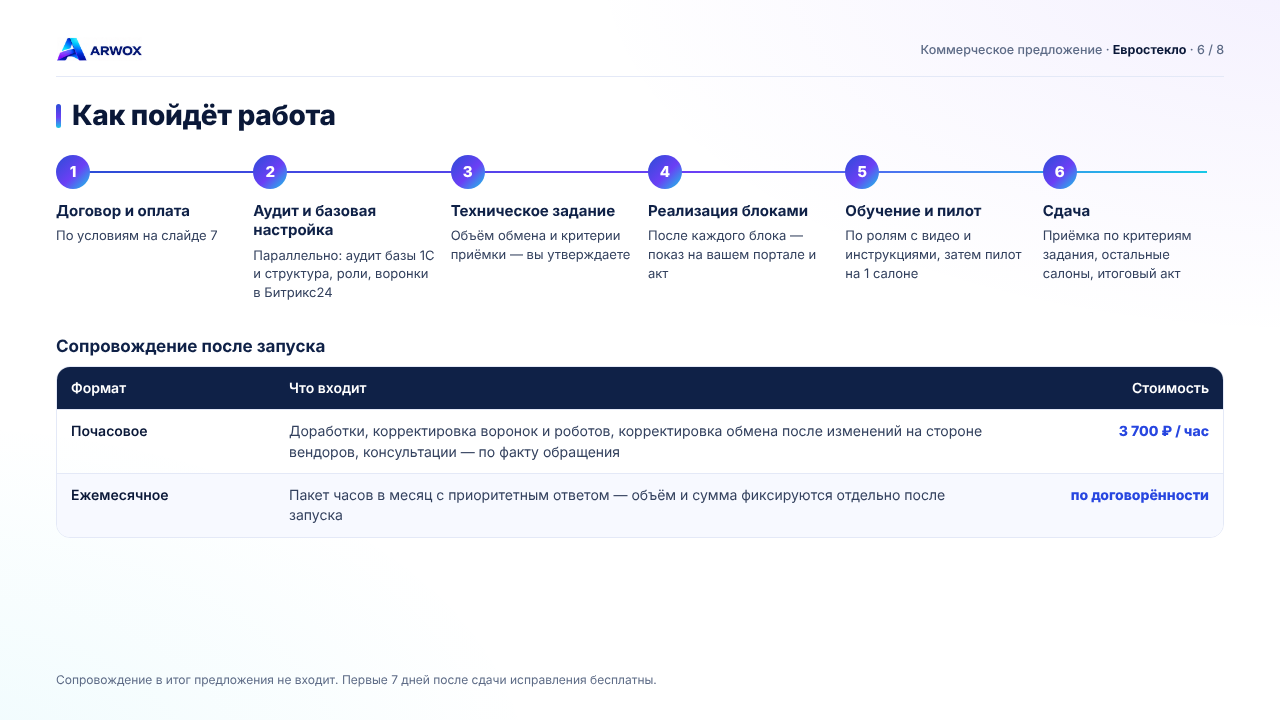
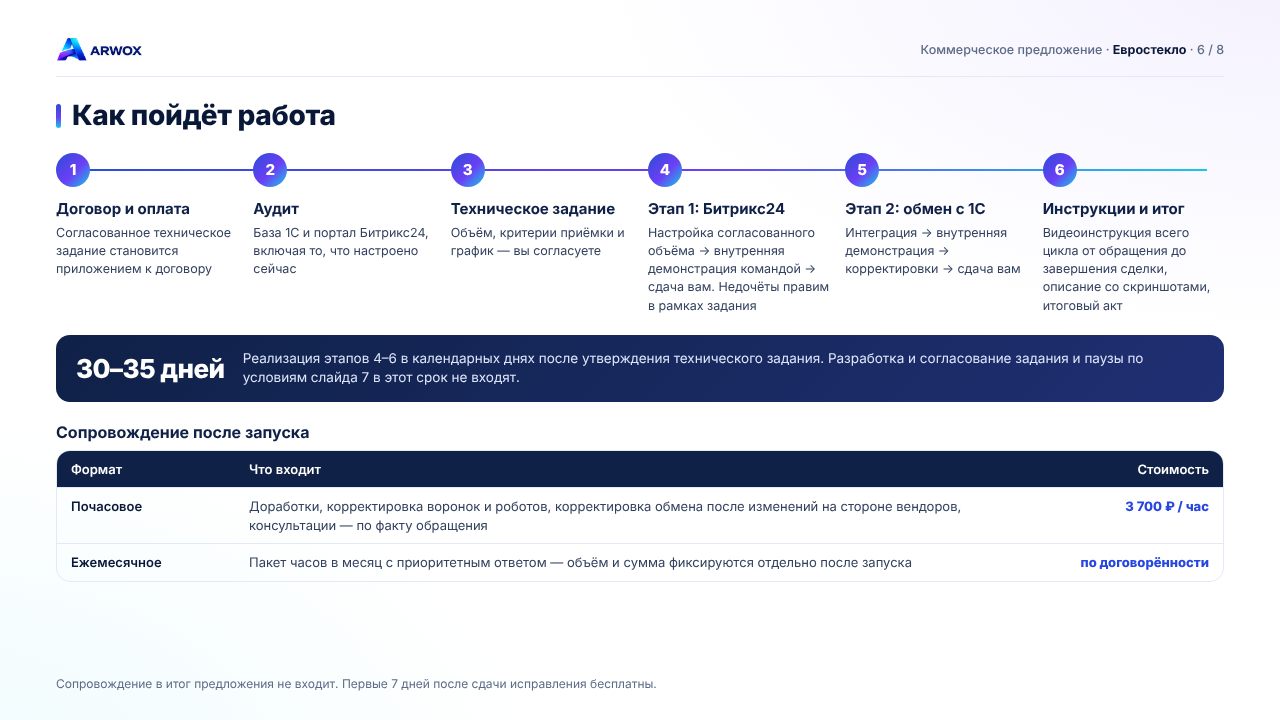
claude-web: КП — этапы по процессу владельца, срок 30–35 дней, пауза, Wazzup, пояснения
Claude-Session: https://claude.ai/code/session_01GkndF4A6X3vok37QfmD711

diff --git a/docs/kp-design/2026-10-28/project/S08-etapy.dc.html b/docs/kp-design/2026-10-28/project/S08-etapy.dc.html
@@ -14,32 +14,41 @@
 body{margin:0}
 a{color:#2746e0}a:hover{color:#6b3ff5}
 .st h3{margin:12px 0 6px;font-size:15px;line-height:1.3;font-weight:700;color:#0f2147}
-.st p{margin:0;font-size:13px;line-height:1.45;color:#33415e}
+.st p{margin:0;font-size:12.5px;line-height:1.45;color:#33415e}
+.t2{width:100%;border-collapse:separate;border-spacing:0;font-size:13px;line-height:1.42;border:1px solid #e4e9f7;border-radius:14px;overflow:hidden}
+.t2 th{background:#0f2147;color:#fff;text-align:left;font-weight:600;padding:9px 14px}
+.t2 td{padding:9px 14px;border-top:1px solid #e4e9f7;vertical-align:top;color:#33415e}
+.t2 td:first-child{color:#0a1838;font-weight:600;width:150px}
+.t2 td.pr{white-space:nowrap;font-weight:800;color:#2746e0;text-align:right;width:170px}
 </style>
 </helmet>
 <div class="slide">
   <div class="bar"><img src="/_blob/2d13f70378f3606a62bea08f50f6129b" alt="ARWOX"><span>Коммерческое предложение · <b>Евростекло</b> · <span>6 / 8</span></span></div>
   <h2 class="h2">Как пойдёт работа</h2>
-  <div style="position: relative; margin-top: 22px">
+  <div style="position: relative; margin-top: 20px">
     <div style="position: absolute; left: 17px; right: 17px; top: 16px; height: 2px; background: linear-gradient(90deg, #2b4dd6 0%, #6b3ff5 55%, #18c8e6 100%)"></div>
     <div style="position: relative; display: grid; grid-template-columns: repeat(6, minmax(0, 1fr)); gap: 16px">
-      <div class="st"><span class="num">1</span><h3>Договор и оплата</h3><p>По условиям на слайде 7</p></div>
-      <div class="st"><span class="num">2</span><h3>Аудит и базовая настройка</h3><p>Параллельно: аудит базы 1С и структура, роли, воронки в Битрикс24</p></div>
-      <div class="st"><span class="num">3</span><h3>Техническое задание</h3><p>Объём обмена и критерии приёмки — вы утверждаете</p></div>
-      <div class="st"><span class="num">4</span><h3>Реализация блоками</h3><p>После каждого блока — показ на вашем портале и акт</p></div>
-      <div class="st"><span class="num">5</span><h3>Обучение и пилот</h3><p>По ролям с видео и инструкциями, затем пилот на 1 салоне</p></div>
-      <div class="st"><span class="num">6</span><h3>Сдача</h3><p>Приёмка по критериям задания, остальные салоны, итоговый акт</p></div>
+      <div class="st"><span class="num">1</span><h3>Договор и оплата</h3><p>Согласованное техническое задание становится приложением к договору</p></div>
+      <div class="st"><span class="num">2</span><h3>Аудит</h3><p>База 1С и портал Битрикс24, включая то, что настроено сейчас</p></div>
+      <div class="st"><span class="num">3</span><h3>Техническое задание</h3><p>Объём, критерии приёмки и график — вы согласуете</p></div>
+      <div class="st"><span class="num">4</span><h3>Этап 1: Битрикс24</h3><p>Настройка согласованного объёма → внутренняя демонстрация командой → сдача вам. Недочёты правим в рамках задания</p></div>
+      <div class="st"><span class="num">5</span><h3>Этап 2: обмен с 1С</h3><p>Интеграция → внутренняя демонстрация → корректировки → сдача вам</p></div>
+      <div class="st"><span class="num">6</span><h3>Инструкции и итог</h3><p>Видеоинструкция всего цикла от обращения до завершения сделки, описание со скриншотами, итоговый акт</p></div>
     </div>
   </div>
-  <p style="margin: 34px 0 10px; font-size: 17px; font-weight: 700; color: #0f2147">Сопровождение после запуска</p>
-  <table class="tb">
-    <thead><tr><th style="width: 190px">Формат</th><th>Что входит</th><th style="width: 190px; text-align: right">Стоимость</th></tr></thead>
+  <div style="margin-top: 20px; display: flex; align-items: center; gap: 18px; padding: 14px 20px; border-radius: 14px; background: linear-gradient(135deg, #0f2147 0%, #1f2f73 100%); color: #fff">
+    <span style="font-size: 26px; font-weight: 800; letter-spacing: -.5px; white-space: nowrap">30–35 дней</span>
+    <span style="font-size: 13.5px; line-height: 1.45; color: #dfe6fb">Реализация этапов 4–6 в календарных днях после утверждения технического задания. Разработка и согласование задания и паузы по условиям слайда 7 в этот срок не входят.</span>
+  </div>
+  <p style="margin: 20px 0 8px; font-size: 16px; font-weight: 700; color: #0f2147">Сопровождение после запуска</p>
+  <table class="t2">
+    <thead><tr><th>Формат</th><th>Что входит</th><th style="text-align: right">Стоимость</th></tr></thead>
     <tbody>
       <tr><td>Почасовое</td><td>Доработки, корректировка воронок и роботов, корректировка обмена после изменений на стороне вендоров, консультации — по факту обращения</td><td class="pr">3&nbsp;700&nbsp;₽ / час</td></tr>
       <tr><td>Ежемесячное</td><td>Пакет часов в месяц с приоритетным ответом — объём и сумма фиксируются отдельно после запуска</td><td class="pr">по договорённости</td></tr>
     </tbody>
   </table>
-  <p class="foot" style="position: absolute; left: 56px; right: 56px; bottom: 32px; margin: 0">Сопровождение в итог предложения не входит. Первые 7 дней после сдачи исправления бесплатны.</p>
+  <p class="foot" style="position: absolute; left: 56px; right: 56px; bottom: 28px; margin: 0">Сопровождение в итог предложения не входит. Первые 7 дней после сдачи исправления бесплатны.</p>
 </div>
 </x-dc>
 <script type="text/x-dc" data-dc-script data-props='{"$preview":{"width":1280,"height":720}}'>

diff --git a/docs/kp-design/2026-10-28/project/S05-stoimost.dc.html b/docs/kp-design/2026-10-28/project/S05-stoimost.dc.html
@@ -13,32 +13,35 @@
 <style>
 body{margin:0}
 a{color:#2746e0}a:hover{color:#6b3ff5}
-.cap{margin:0 0 10px;font-size:15px;font-weight:700;color:#0f2147}
+.cap{margin:0 0 8px;font-size:15px;font-weight:700;color:#0f2147}
+.tb th,.tb td{padding:9px 14px}
+.tb{font-size:13.5px}
 </style>
 </helmet>
 <div class="slide">
   <div class="bar"><img src="/_blob/2d13f70378f3606a62bea08f50f6129b" alt="ARWOX"><span>Коммерческое предложение · <b>Евростекло</b> · <span>4 / 8</span></span></div>
   <h2 class="h2">Стоимость</h2>
-  <p class="cap" style="margin-top: 18px">Услуги ARWOX</p>
+  <p class="cap" style="margin-top: 14px">Услуги ARWOX</p>
   <table class="tb">
     <thead><tr><th style="width: 330px">Услуга</th><th>Что входит</th><th style="width: 150px; text-align: right">Стоимость</th></tr></thead>
     <tbody>
-      <tr><td>Внедрение: продажи в Битрикс24 и обмен с 1С</td><td>Аудит 1С и техническое задание, настройка портала и ролей, лиды, сделка, обмен с 1С, отчёты, обучение, пилот и сдача</td><td class="pr">260&nbsp;000&nbsp;₽</td></tr>
+      <tr><td>Внедрение: продажи в Битрикс24 и обмен с 1С</td><td>Аудит 1С и техническое задание, настройка портала и ролей, лиды, сделка, обмен с 1С, стандартные отчёты (или готовое решение из Маркетплейса), видеоинструкция и сдача в 2 этапа<div style="margin-top: 6px; font-size: 13px; color: #5d6b86">Отчёты под конкретные задачи клиента — отдельная разработка, оценивается отдельно.</div></td><td class="pr">260&nbsp;000&nbsp;₽</td></tr>
     </tbody>
   </table>
-  <div style="margin-top: 12px; display: flex; align-items: center; justify-content: space-between; padding: 16px 22px; border-radius: 14px; background: linear-gradient(135deg, #0f2147 0%, #1f2f73 100%); color: #fff">
+  <div style="margin-top: 10px; display: flex; align-items: center; justify-content: space-between; padding: 12px 22px; border-radius: 14px; background: linear-gradient(135deg, #0f2147 0%, #1f2f73 100%); color: #fff">
     <span style="font-size: 16px; font-weight: 700">Итого по предложению</span>
     <span style="font-size: 30px; font-weight: 800; letter-spacing: -.5px">260&nbsp;000&nbsp;₽</span>
   </div>
-  <p class="cap" style="margin-top: 24px">Оплачивается напрямую владельцам — в итог не входит</p>
+  <p class="cap" style="margin-top: 16px">Оплачивается напрямую владельцам — в итог не входит</p>
   <table class="tb">
     <thead><tr><th style="width: 330px">Позиция</th><th>Комментарий</th><th style="width: 150px; text-align: right">Стоимость</th></tr></thead>
     <tbody>
       <tr><td>Лицензия Битрикс24 «Профессиональный», облако</td><td>Уже действует у вас до 26.06.2027</td><td class="pr"></td></tr>
-      <tr><td>Подписка «Битрикс24 Маркетплейс» «Профессиональный», 12&nbsp;месяцев</td><td>Нужна для приложений телефонии и мессенджеров и для собственных интеграций портала. Если подписка для портала оформляется впервые, у вендора может действовать сниженная цена — проверим при оформлении</td><td class="pr">87&nbsp;840&nbsp;₽</td></tr>
-      <tr><td>Сервисы телефонии и мессенджеров</td><td>По тарифам их владельцев; подбираем на проектировании</td><td class="pr"></td></tr>
+      <tr><td>Подписка «Битрикс24 Маркетплейс» «Профессиональный», 12&nbsp;месяцев</td><td>Нужна для приложений телефонии и мессенджеров и собственных интеграций портала. При первом оформлении у вендора может действовать сниженная цена — проверим</td><td class="pr">87&nbsp;840&nbsp;₽</td></tr>
+      <tr><td>MAX или WhatsApp через Wazzup — если выберете</td><td>1 канал (1 номер), тариф Pro: писать первым, до 500 диалогов в месяц; 4&nbsp;000&nbsp;₽ при помесячной оплате или 38&nbsp;400&nbsp;₽ за год</td><td class="pr">от 3&nbsp;200&nbsp;₽ / мес.</td></tr>
     </tbody>
   </table>
+  <p class="foot" style="margin: 8px 0 0">Телефония — по тарифу вашего оператора; каждый канал Wazzup оплачивается отдельно.</p>
 </div>
 </x-dc>
 <script type="text/x-dc" data-dc-script data-props='{"$preview":{"width":1280,"height":720}}'>

diff --git a/docs/kp-design/2026-10-28/project/S04-ramki.dc.html b/docs/kp-design/2026-10-28/project/S04-ramki.dc.html
@@ -14,8 +14,8 @@
 body{margin:0}
 a{color:#2746e0}a:hover{color:#6b3ff5}
 .cd p{font-size:14.5px}
-.cd li{font-size:14px}
-.cd li+li{margin-top:9px}
+.cd li{font-size:13px}
+.cd li+li{margin-top:7px}
 </style>
 </helmet>
 <div class="slide">
@@ -26,18 +26,19 @@ a{color:#2746e0}a:hover{color:#6b3ff5}
       <div class="cd" style="padding: 20px 22px; border-top: 4px solid #2b4dd6"><h3>Аудит 1С и техническое задание</h3><p>Способ обмена под вашу конфигурацию, критерии приёмки</p></div>
       <div class="cd" style="padding: 20px 22px; border-top: 4px solid #4a46ea"><h3>Лиды и сделка</h3><p>Каналы, распределение, проверка дублей; 9 стадий, задачи и сроки, воронка отказников</p></div>
       <div class="cd" style="padding: 20px 22px; border-top: 4px solid #6b3ff5"><h3>Обмен с 1С — 6 потоков</h3><p>Клиенты и заказы, номенклатура, стадии, документы, оплаты, производство</p></div>
-      <div class="cd" style="padding: 20px 22px; border-top: 4px solid #4a86ea"><h3>Отчёты и роли</h3><p>Воронка, просрочки, пропущенные обращения; права для 9 ролей</p></div>
-      <div class="cd" style="padding: 20px 22px; border-top: 4px solid #18c8e6; grid-column: span 2"><h3>Обучение, пилот и сдача</h3><p>Обучение по ролям с видео и инструкциями, пилот на 1 салоне, приёмка по техническому заданию. Звонки клиенту после сделки через 14, 90 и 270&nbsp;дней — автоматической задачей ассистенту</p></div>
+      <div class="cd" style="padding: 20px 22px; border-top: 4px solid #4a86ea"><h3>Отчёты и роли</h3><p>Стандартные отчёты: воронка, просрочки, пропущенные обращения; права для 9 ролей</p></div>
+      <div class="cd" style="padding: 20px 22px; border-top: 4px solid #18c8e6; grid-column: span 2"><h3>Сдача в 2 этапа и инструкции</h3><p>Сначала Битрикс24, затем обмен с 1С — каждый этап с внутренней демонстрацией и сдачей вам. Видеоинструкция всего цикла и описание со скриншотами. Звонки клиенту после сделки через 14, 90 и 270&nbsp;дней по заказам от 100&nbsp;000&nbsp;₽ — автоматической задачей ассистенту</p></div>
     </div>
     <div class="cd soft" style="padding: 20px 22px">
       <h3>Не входит</h3>
       <ul>
-        <li>Рекламации — следующим этапом</li>
-        <li>Тендеры, частичные отгрузки, отказ клиента после оплаты</li>
-        <li>Авито и WhatsApp — по вашему решению</li>
-        <li>Монтаж отдельным договором, синхронизация календаря с 1С, разбор жалоб — по отдельному решению</li>
+        <li>Рекламации и отказ клиента после оплаты — следующим этапом</li>
+        <li>Тендеры; частичные отгрузки — порядок оформления определяют ваши юрист и бухгалтерия</li>
+        <li>Продажа монтажа через отдельное юрлицо и договор — когда решите; сам монтаж как стадия сделки входит</li>
+        <li>Авито сейчас нет, WhatsApp — по желанию; сервис — слайд 4</li>
+        <li>Синхронизация календаря с 1С — желательна, не обязательна: календарь заданий ведётся в Битрикс24</li>
+        <li>Разбор жалоб после звонков — пока вручную</li>
         <li>Изменения в самой конфигурации 1С, если без них обмен невозможен, — отдельная оценка до начала работ</li>
-        <li>Лицензия, подписка и сторонние сервисы — напрямую их владельцам</li>
       </ul>
     </div>
   </div>

diff --git a/docs/kp-design/2026-10-28/project/S09-usloviya.dc.html b/docs/kp-design/2026-10-28/project/S09-usloviya.dc.html
@@ -13,8 +13,8 @@
 <style>
 body{margin:0}
 a{color:#2746e0}a:hover{color:#6b3ff5}
-.u p{margin:0;font-size:12.5px;line-height:1.45;color:#33415e}
-.u p+p{margin-top:9px}
+.u p{margin:0;font-size:12px;line-height:1.42;color:#33415e}
+.u p+p{margin-top:7px}
 .u b{color:#0a1838}
 </style>
 </helmet>
@@ -27,8 +27,9 @@ a{color:#2746e0}a:hover{color:#6b3ff5}
       <p><b>Срок действия предложения</b> — 7 календарных дней, до 04.11.2026.</p>
       <p><b>Порядок оплаты</b> — [по этапам: доли и сроки платежей уточняются]. <b>Гарантия</b> — 7 дней бесплатных исправлений после сдачи работ.</p>
       <p><b>Объём работ</b> ограничен слайдом 3 и техническим заданием. Изменения после утверждения задания, в том числе переименование статусов после реализации, — отдельным согласованием.</p>
-      <p><b>График и приёмка.</b> График этапов фиксируем в техническом задании; приёмка — в течение 3 рабочих дней после сдачи каждого блока.</p>
-      <p><b>Доступы и содействие.</b> Копия базы 1С, контакт вашего специалиста 1С и администратор портала нужны на старте; задержки на вашей стороне соразмерно сдвигают сроки.</p>
+      <p><b>Срок и приёмка.</b> Реализация — 30–35 календарных дней после утверждения технического задания; разработка и согласование задания и паузы в срок не входят. Приёмка — 3 рабочих дня после сдачи этапа; если письменных замечаний нет, этап считается принятым.</p>
+      <p><b>Приостановка работ.</b> Ошибки, сбои или доработки вне нашей зоны — конфигурация и данные 1С, доступы, изменения вендора — ставят работы по связанным блокам на паузу до устранения причины; срок продлевается на время паузы. Выяснение и устранение таких причин — сопровождение по согласованию. Задержка оплаты или согласований с вашей стороны — такая же пауза.</p>
+      <p><b>Доступы и содействие.</b> Копия базы 1С, контакт вашего специалиста 1С и администратор портала нужны на старте; согласования — через 1 ответственного с вашей стороны.</p>
       <p><b>Данные.</b> Ввод и актуальность данных, порядок в базе 1С до запуска обмена — на вашей стороне; мы подключаем и настраиваем.</p>
     </div>
     <div class="cd soft u">

diff --git a/docs/kp-design/2026-10-28/project/S07-dve-sistemy.dc.html b/docs/kp-design/2026-10-28/project/S07-dve-sistemy.dc.html
@@ -24,7 +24,7 @@ a{color:#2746e0}a:hover{color:#6b3ff5}
       <h3>Входит в фиксированную стоимость</h3>
       <ul>
         <li>Обмен по техническому заданию на конфигурации обеих систем, зафиксированной на аудите</li>
-        <li>Проверка на реальных заказах пилотного салона</li>
+        <li>Проверка на реальных заказах</li>
         <li>7 дней бесплатных исправлений после сдачи</li>
       </ul>
     </div>
@@ -46,7 +46,7 @@ a{color:#2746e0}a:hover{color:#6b3ff5}
       </ul>
     </div>
   </div>
-  <div style="margin-top: 16px; padding: 14px 20px; border-radius: 14px; background: linear-gradient(135deg, #0f2147 0%, #1f2f73 100%); color: #fff; font-size: 14px; line-height: 1.5"><b>Почему говорим об этом сейчас.</b> Это свойство любой связки 2 систем, а не оговорка на всякий случай. 1С остаётся учётной системой: если обмен остановится, учёт в 1С не прерывается. Каждое поле ведёт 1 система — данные не правятся с 2 сторон.</div>
+  <div style="margin-top: 16px; padding: 14px 20px; border-radius: 14px; background: linear-gradient(135deg, #0f2147 0%, #1f2f73 100%); color: #fff; font-size: 14px; line-height: 1.5"><b>Почему говорим об этом сейчас.</b> Это свойство любой связки 2 систем, а не оговорка на всякий случай. 1С остаётся учётной системой: если обмен остановится, учёт в 1С не прерывается. Каждое поле ведёт 1 система — данные не правятся с 2 сторон. Если сбой или доработка нужны на стороне одной из систем, работы по связанным блокам ставим на паузу до устранения причины, срок сдвигается на время паузы.</div>
 </div>
 </x-dc>
 <script type="text/x-dc" data-dc-script data-props='{"$preview":{"width":1280,"height":720}}'>

diff --git a/docs/kp-design/2026-10-28/project/Main.dc.html b/docs/kp-design/2026-10-28/project/Main.dc.html
@@ -32,12 +32,13 @@ a{color:#9fc0ff}a:hover{color:#cfe0ff}
     <div class="gl" style="padding: 26px 28px; border-radius: 22px; background: rgba(255,255,255,.08)">
       <span style="font-size: 12px; font-weight: 700; letter-spacing: .08em; text-transform: uppercase; color: #9fb0d6">Итог по предложению</span>
       <div style="margin-top: 10px; font-size: 52px; line-height: 1; font-weight: 800; letter-spacing: -1px">260&nbsp;000&nbsp;₽</div>
-      <p style="margin: 14px 0 0; font-size: 14px; line-height: 1.5; color: #c9d4ee">Под ключ: аудит 1С и техническое задание, настройка Битрикс24, обмен с 1С, обучение и сдача</p>
+      <p style="margin: 14px 0 0; font-size: 14px; line-height: 1.5; color: #c9d4ee">Под ключ: аудит 1С и техническое задание, настройка Битрикс24, обмен с 1С, видеоинструкция и сдача в 2 этапа</p>
     </div>
   </div>
   <div style="position: absolute; left: 64px; right: 64px; bottom: 40px; display: flex; gap: 10px; flex-wrap: wrap">
     <span class="gl" style="padding: 10px 14px; font-size: 13px; color: #e7eefc"><b style="color: #fff">Облако</b> Битрикс24 «Профессиональный»</span>
-    <span class="gl" style="padding: 10px 14px; font-size: 13px; color: #e7eefc"><b style="color: #fff">Фиксированная стоимость</b> за согласованный объём</span>
+    <span class="gl" style="padding: 10px 14px; font-size: 13px; color: #e7eefc"><b style="color: #fff">Фиксированная</b> стоимость</span>
+    <span class="gl" style="padding: 10px 14px; font-size: 13px; color: #e7eefc"><b style="color: #fff">Реализация</b> 30–35 дней после утверждения задания</span>
     <span class="gl" style="padding: 10px 14px; font-size: 13px; color: #e7eefc"><b style="color: #fff">Действует</b> до 04.11.2026</span>
   </div>
 </div>

diff --git a/docs/kp-design/2026-10-28/project/S02-situaciya.dc.html b/docs/kp-design/2026-10-28/project/S02-situaciya.dc.html
@@ -45,7 +45,7 @@ a{color:#2746e0}a:hover{color:#6b3ff5}
       </div>
     </div>
   </div>
-  <div style="margin-top: 22px; padding: 18px 22px; border-radius: 14px; background: linear-gradient(135deg, #0f2147 0%, #1f2f73 100%); color: #fff; font-size: 14px; line-height: 1.5"><b>Критерий успеха</b> — на реальных заказах пилотного салона сделка проходит все стадии, документы и оплаты совпадают в 2 системах. Точные критерии приёмки фиксируем в техническом задании.</div>
+  <div style="margin-top: 22px; padding: 18px 22px; border-radius: 14px; background: linear-gradient(135deg, #0f2147 0%, #1f2f73 100%); color: #fff; font-size: 14px; line-height: 1.5"><b>Критерий успеха</b> — на реальных заказах сделка проходит все стадии, документы и оплаты совпадают в 2 системах. Точные критерии приёмки фиксируем в техническом задании.</div>
 </div>
 </x-dc>
 <script type="text/x-dc" data-dc-script data-props='{"$preview":{"width":1280,"height":720}}'>

diff --git a/docs/kp-design/2026-10-28/facts-kp.md b/docs/kp-design/2026-10-28/facts-kp.md
@@ -24,7 +24,7 @@
 | K14 | T1-21, T3-10 | К | Рекламации и тендеры — вне контура | 3 | Рекламации |
 | K15 | T2-27, T2-23 | К | Частичные отгрузки решает бухгалтерия; монтаж отдельным договором — идея | 3 | частичные отгрузки |
 | K16 | T1-03, T1-05 | К | Авито сейчас нет; WhatsApp — «может быть» | 3 | WhatsApp |
-| K17 | T3-04 | К | Синхронизация календаря с 1С желательна, не обязательна | искл. (деталь ППО — в КП только ключевое, владелец 28.10) | желательна |
+| K17 | T3-04 | К | Синхронизация календаря с 1С желательна, не обязательна | 3 | желательна |
 | K18 | T2 358 | К | Жалобы после звонков сейчас не автоматизировать | 3 | жалоб |
 | K19 | T2-26; M узел «Ассистент ОП звонит через 14/90/270» и комментарий «Автоматическая постановка задачи» | К | Звонки 14/90/270, ассистент, автозадача, заказы от 100 000 ₽ | 3 | 270 |
 | K20 | T4 54–61 | Д | Типовая интеграция; возможна доработка со стороны КА — «надо понимать, о чём речь»; не решено | 3 | конфигурации 1С |
@@ -35,10 +35,17 @@
 | K25 | T1-17 | К | Звонки и почта салона — менеджеру салона; без привязки — руководителю, он распределяет | искл. (деталь ППО — в КП только ключевое, владелец 28.10) | без привязки |
 | K26 | T1-07 | К | Дубли — по телефону, e-mail, ФИО | искл. (деталь ППО — в КП только ключевое, владелец 28.10) | e-mail, ФИО |
 | K27 | T2-07 | К | Стадии двигаются выполненными задачами | искл. (деталь ППО — в КП только ключевое, владелец 28.10) | двигают задачи |
-| K28 | ППО слайд 13 (предложение ARWOX, утверждено владельцем 28.10) | Ан | Пилот на 1 салоне, затем остальные | 6 | пилот на 1 салоне |
+| K28 | ППО слайд 13 (предложение ARWOX, утверждено владельцем 28.10) | Ан | Пилот на 1 салоне, затем остальные | искл. (владелец 28.10: процесс без пилота — этапы 1 и 2 с внутренней демонстрацией) | пилот на 1 салоне |
 | K29 | К SERV-990 | Ц | Техническая поддержка — 3 700 ₽ | 6 | 3 700 |
 | K30 | Р workflow.md «Структура КП» | Пр | Срок действия 7 дней; приёмка 3 рабочих дня; гарантия 7 дней | 7 | 04.11.2026 |
 | K31 | T3-07 | Ан | Изменение статусов после реализации — доработки и рост стоимости | 7 | переименование статусов |
-| K32 | T4 62 | Ан | Ранее доступ к 1С затягивался на месяц — сроки и акты сдвигались | 7 | задержки на вашей стороне |
+| K32 | T4 62 | Ан | Ранее доступ к 1С затягивался на месяц — сроки и акты сдвигались | 7 | Задержка оплаты или согласований |
 | K33 | T4-05; T3 59:47–01:00:01 | Д | Копия базы 1С — после подписания; связка с программистом клиента | 8 | копия базы 1С |
 | K34 | M комментарий 28.09 «структура карточек: лида, компании, сделки»; Q28 | К | Карточки лида и клиента прислали, компании и сделки — нет | 8 | карточки лида и клиента |
+| K35 | В 28.10 | Д | Порядок: договор (согласованное ТЗ — приложение) → аудит 1С и Битрикс24, включая текущие настройки → ТЗ → этап 1 Битрикс24 → этап 2 обмен с 1С → видеоинструкция и итоговый акт; внутренняя демонстрация перед каждой сдачей | 6 | приложением к договору |
+| K36 | В 28.10 | Д | Реализация — 30–35 календарных дней, без разработки и согласования ТЗ | 6 | 30–35 дней |
+| K37 | В 28.10 | Д | Пауза, если на стороне одной из платформ ошибки или доработки; защита исполнителя | 7 | Приостановка работ |
+| K38 | К Wazzup MAX/WhatsApp Pro, 1 и 12 мес. (проверено 23.10.2026) | Ц | 4 000 ₽ в месяц; 38 400 ₽ за год (3 200 ₽ в месяц); писать первым; до 500 диалогов | 4 | 38 400 |
+| K39 | T2 5095–5180 | К | Монтаж отдельно — идея разделить продажу на 2 юрлица (товар и услуги), не реализовано; при появлении — новая сделка | 3 | отдельное юрлицо |
+| K40 | В — правка на холсте 28.10 | Д | Стандартные отчёты или готовое решение из Маркетплейса; отчёты под задачи клиента — отдельная разработка | 4 | отдельная разработка |
+| K41 | В 28.10 | Д | Видеоинструкция всего цикла от начала до конца и описание со скриншотами | 6 | скриншотами |

diff --git a/sessions/2026-10-27-validatsiya-dannyh.md b/sessions/2026-10-27-validatsiya-dannyh.md
@@ -61,3 +61,7 @@
 - 28.10: открыто к владельцу: порядок оплаты (в КП заглушка «[по этапам: …]»), целевой срок проекта, кто выполняет работы на стороне 1С в пределах 260 000 ₽.
 - 28.10: владелец: «КП некрасивое, без титульного листа и общего дизайна — посмотри шаблоны и адаптируй; КП — лицо, должно быть вкусным» + «КП не должно детально дублировать ППО, только ключевое». Изучены TEMPLATE_KP_ARWOX_Basic_v1 / NewDesign_v1 / КП М-Сервис / эталон Офтальмо (снимки playwright): тёмно-синий hero с фиолетовым и бирюзовым свечением, градиентный акцент в заголовке, стеклянные плашки, логотип ARWOX, градиентная плашка «Бизнес-партнёр Битрикс24», шрифт Inter, тёмно-синие шапки таблиц, градиентная полоса у заголовков разделов, тёмный фирменный футер.
 - 28.10: КП переделан на том же холсте (версия 5): 8 слайдов вместо 10 — обложка; задача и результат (ситуация + JTBD); что входит и что нет; стоимость; связка Битрикс24 и 1С; этапы + сопровождение; условия; как начать + фирменный футер. Удалены слайды «состав работ» и отдельный JTBD (дублировали ППО). Общий стиль — project/kp.css; логотипы из шаблона загружены в холст как файлы (assets/ в репозитории). Карта фактов: 10 фактов-деталей ППО помечены «искл.» по слову владельца, покрытие 24/24, 0 промахов. Проверка вёрстки — копия validate_canvas с Inter (validate_inter.py), TOTAL ISSUES 0, снимки 8/8 просмотрены.
+- 28.10: ответ в треде холста КП про монтаж: монтаж как стадия входит; «не входит» — только идея клиента продавать монтаж через отдельное юрлицо и договор (T2 5095–5180, 04.10), на 27.10 монтаж не обсуждали.
+- 28.10: владелец: пояснения в спорных местах, слайд 6 по его процессу (договор с ТЗ-приложением → аудит 1С и текущего Битрикс24 → ТЗ → этап 1 Битрикс24 → этап 2 1С, каждый с внутренней демонстрацией → видеоинструкция всего цикла со скриншотами), срок реализации 30–35 календарных дней без ТЗ, оговорка о паузе при сбоях и доработках одной из платформ (защита исполнителя), Wazzup — цена 1 канала. Сначала план текстом в чат, затем правки.
+- 28.10: внесено (холст, версия 7): обложка — плашка «Реализация 30–35 дней после утверждения задания»; слайд 3 — 7 пояснений «не входит» (монтаж, частичные отгрузки, Авито/WhatsApp, календарь, жалобы, конфигурация 1С, рекламации), отчёты «стандартные»; слайд 4 — правка владельца про отчёты сохранена, строка Wazzup MAX/WhatsApp Pro 1 канал (4 000 ₽/мес., 38 400 ₽/год — каталог 23.10.2026), сноска про телефонию; слайд 5 — пауза при сбое одной из систем; слайд 6 — 6 шагов по процессу владельца + плашка срока; слайд 7 — «Срок и приёмка» (молчаливая приёмка за 3 рабочих дня), «Приостановка работ», согласования через 1 ответственного. Пилот убран со всех слайдов. Проверка вёрстки 0, снимки просмотрены, карта фактов 31/31.
+- 28.10: открыто к владельцу: порядок оплаты (заглушка), кто делает работу на стороне 1С, вернуть ли пилот в этап 2, предел паузы (30 дней → новый график), тариф Wazzup Pro.
